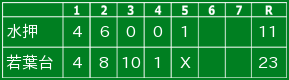
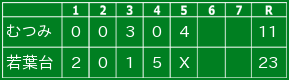
Add files via upload

Changed region(s): [[0.0, 0.025, 0.7163, 0.975]]

diff --git a/index.html b/index.html
@@ -46,13 +46,13 @@
                   <tr><th>更新日</th><th>内容</th></tr>
                 </thead>
                 <tbody>
-                  <tr class=""><td>2021.05.02</td><td class="text-left"><a href="./game/game2021.html">2021.05.02むつみ台戦結果更新</a><BR><a href="./score/score2021.html">個人成績2021年度更新</a></td></tr>
-                  <tr class=""><td>2021.04.18</td><td class="text-left"><a href="./info/info202104.html">2021年4月のお知らせ</a><BR><a href="./schedule/schedule2021.html">活動予定更新</a><BR><a href="./game/game2021.html">2021.04.18水押戦結果更新</a><BR><a href="./score/score2021.html">個人成績2021年度更新</a></td></tr>
-                  <tr class=""><td>2021.04.11</td><td class="text-left"><a href="./game/game2021.html">2021.04.11松風戦結果更新</a><BR><a href="./score/score2021.html">個人成績2021年度更新</a></td></tr>
-                  <tr class=""><td>2021.04.04</td><td class="text-left"><a href="./game/game2021.html">2021.04.04九区戦結果更新</a><BR><a href="./score/score2021.html">個人成績2021年度更新</a></td></tr>
-                  <tr class=""><td>2021.03.21</td><td class="text-left"><a href="./score/score2020.html">個人成績2020年度追加</a></td></tr>
-                  <tr class=""><td>2021.03.16</td><td class="text-left"><a href="./info/info202103.html">2021年3月のお知らせ</a><BR></td></tr>
-                  <tr class=""><td>2021.02.21</td><td class="text-left"><a href="./info/info202102.html">2021年2月のお知らせ</a></td></tr>
+                  <tr class=""><td>2021.05.02</td><td class="text-left"><a href="./game/game2021.html">05.02 むつみ台戦 追加</a><BR><a href="./score/score2021.html">個人成績 更新</a></td></tr>
+                  <tr class=""><td>2021.04.18</td><td class="text-left"><a href="./info/info202104.html">4月のお知らせ 追加</a><BR><a href="./schedule/schedule2021.html">活動予定 更新</a><BR><a href="./game/game2021.html">04.18 水押戦 追加</a><BR><a href="./score/score2021.html">個人成績 更新</a></td></tr>
+                  <tr class=""><td>2021.04.11</td><td class="text-left"><a href="./game/game2021.html">04.11 松風戦 追加</a><BR><a href="./score/score2021.html">個人成績 更新</a></td></tr>
+                  <tr class=""><td>2021.04.04</td><td class="text-left"><a href="./game/game2021.html">04.04 九区戦 追加</a><BR><a href="./score/score2021.html">個人成績 更新</a></td></tr>
+                  <tr class=""><td>2021.03.21</td><td class="text-left"><a href="./score/score2020.html">個人成績2020年度 追加</a></td></tr>
+                  <tr class=""><td>2021.03.16</td><td class="text-left"><a href="./info/info202103.html">3月のお知らせ 追加</a><BR></td></tr>
+                  <tr class=""><td>2021.02.21</td><td class="text-left"><a href="./info/info202102.html">2月のお知らせ 追加</a></td></tr>
                 </tbody>
               </table>
             </div>

diff --git a/score/score2020.html b/score/score2020.html
@@ -1,7 +1,7 @@
 <!doctype html>
 <html lang="ja">
   <head>
-    <title>試合結果2021</title>
+    <title>2020年度 個人成績</title>
     <!-- Required meta tags -->
     <meta charset="utf-8">
     <meta name="viewport" content="width=device-width, initial-scale=1, shrink-to-fit=no">
